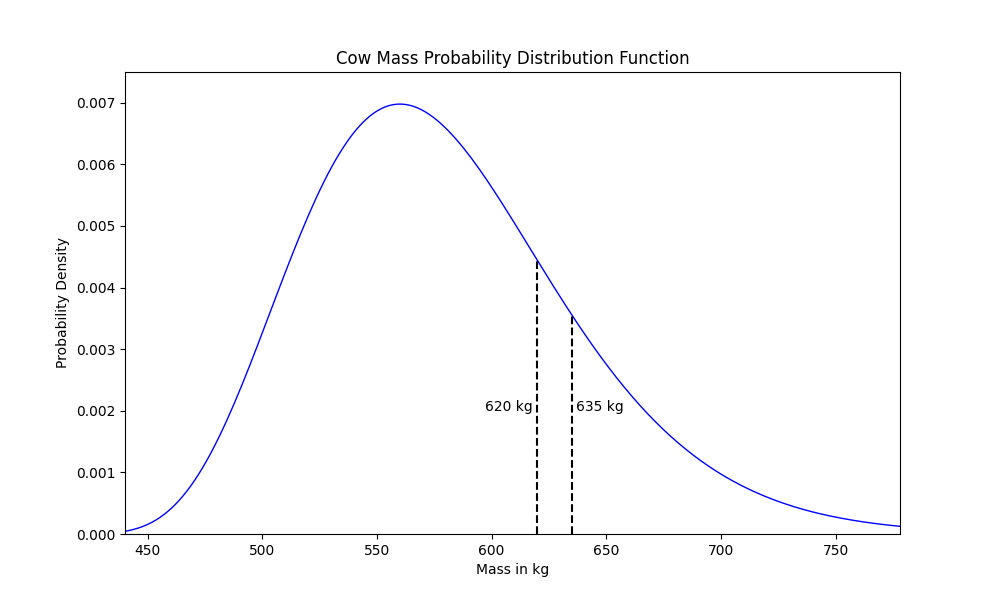
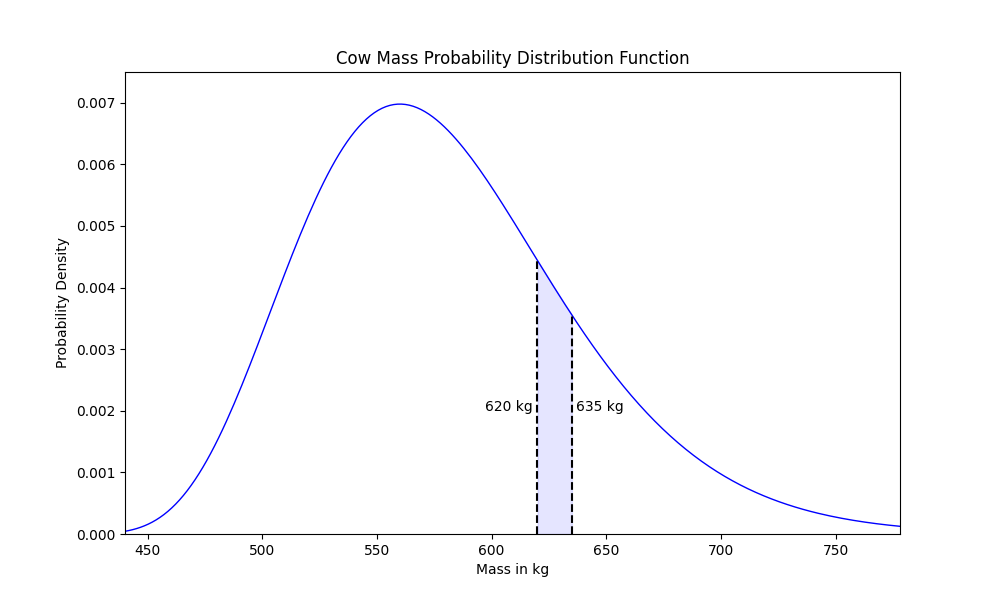
Filled area under curve

Changed region(s): [[0.527, 0.45, 0.589, 0.9]]

diff --git a/Chapters/cdf_uniform/20cows.py b/Chapters/cdf_uniform/20cows.py
@@ -107,6 +107,9 @@ ax.text(bound_min - 23, 0.002, f"{bound_min:.0f} kg")
 ax.vlines(bound_max, 0, bpdf_max, "k", linestyles="dashed")
 ax.text(bound_max + 2, 0.002, f"{bound_max:.0f} kg")
 
+small_x = np.linspace(bound_min, bound_max, 40)
+ax.fill_between(small_x, gamma.pdf(small_x, a, loc=loc, scale=scale), color="b", alpha=0.1)
+
 ax.set_xlabel("Mass in kg")
 ax.set_ylabel("Probability Density")
 ax.set_title("Cow Mass Probability Distribution Function")
